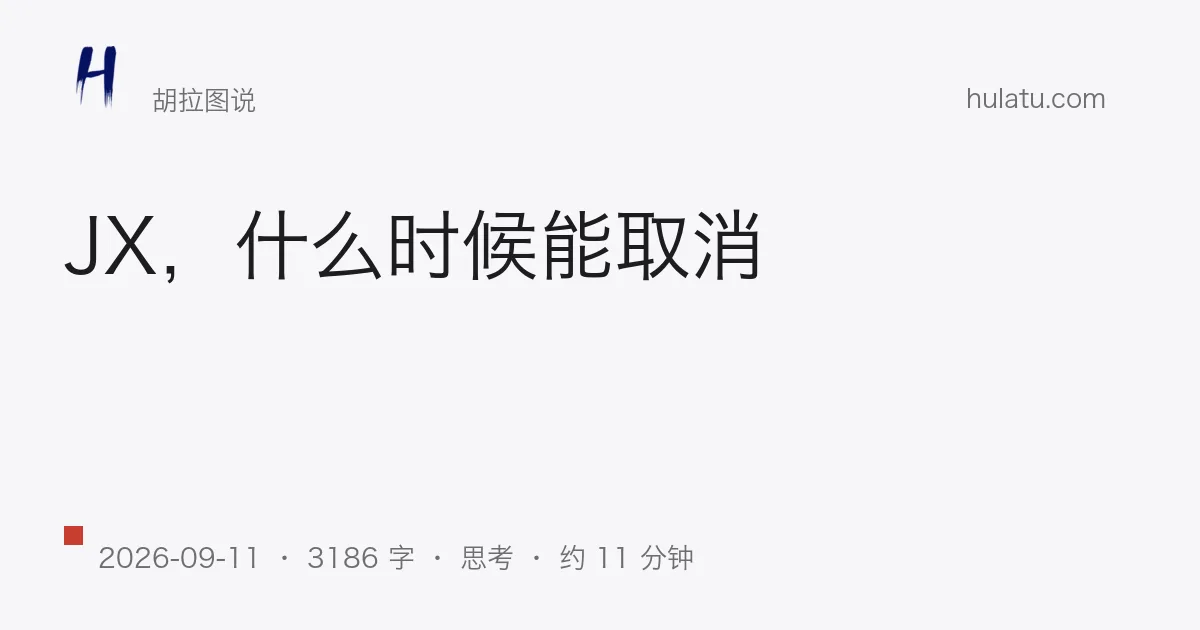
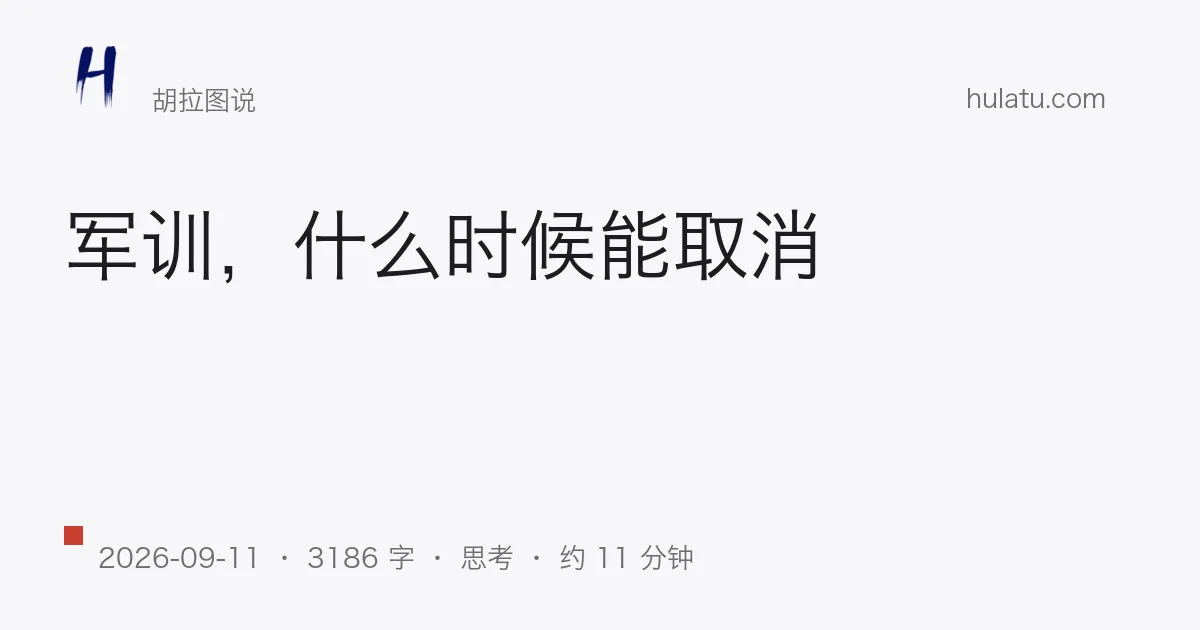
博客：新增/修改文章

Changed region(s): [[0.0617, 0.3317, 0.6783, 0.4524]]

diff --git a/assets/css/style.css b/assets/css/style.css
@@ -579,6 +579,7 @@ main.container.is-entering {
   justify-content: center;
   width: 30px;
   height: 30px;
+  padding: 0;
   background: none;
   border: 1px solid var(--line);
   border-radius: 50%;
@@ -588,6 +589,8 @@ main.container.is-entering {
 }
 
 .random-btn svg {
+  display: block;
+  transform-origin: center;
   transition: transform 0.3s var(--ease);
 }
 
@@ -603,9 +606,9 @@ main.container.is-entering {
 
 .random-btn:active { transform: translateY(1px); }
 
-/* 随机进入文章按钮不跟第一个随机按钮一起旋转，避免两个按钮动效重复 */
+/* 两个首页随机按钮悬停时统一旋转 */
 .random-enter-btn:hover svg {
-  transform: none;
+  transform: rotate(90deg);
 }
 
 /* iOS 风格分段控件：精选 / 最新 */
@@ -613,8 +616,9 @@ main.container.is-entering {
   display: inline-flex;
   align-items: center;
   justify-self: end;
-  gap: var(--space-1);
-  padding: var(--space-1);
+  gap: 2px;
+  height: 30px;
+  padding: 3px;
   background: var(--surface-2);
   border: 1px solid var(--line);
   border-radius: var(--radius-pill);
@@ -628,12 +632,21 @@ main.container.is-entering {
   font: inherit;
   font-size: 0.78rem;
   line-height: 1;
-  padding: 0.55em 1em;
+  display: inline-flex;
+  align-items: center;
+  justify-content: center;
+  min-width: 4em;
+  height: 100%;
+  padding: 0 1em;
   border-radius: var(--radius-pill);
   cursor: pointer;
   white-space: nowrap;
   transition: color 0.2s var(--ease), background 0.2s var(--ease),
     box-shadow 0.2s var(--ease);
+}
+
+.seg-btn:hover:not(.is-active) {
+  color: var(--ink-soft);
 }
 
 .seg-btn.is-active {
@@ -3654,6 +3667,17 @@ svg {
 .random-post-btn svg,
 .lightbox-nav svg,
 .lightbox-close svg {
+  width: 20px;
+  height: 20px;
+}
+
+/* 首页左下角两个随机按钮：按视觉重量做光学补偿，避免箭头图标显得偏大 */
+.home-side-actions #random-btn svg {
+  width: 16px;
+  height: 16px;
+}
+
+.home-side-actions #random-post-btn svg {
   width: 20px;
   height: 20px;
 }

diff --git a/layouts/index.html b/layouts/index.html
@@ -50,7 +50,7 @@
 <div class="list-toolbar">
   <div class="home-side-actions">
     <button type="button" class="random-btn" id="random-btn" title="随机显示 5 篇文章" aria-label="随机显示 5 篇文章">
-      <svg viewBox="0 0 24 24" width="15" height="15" fill="none" stroke="currentColor" stroke-width="2" stroke-linecap="round" stroke-linejoin="round" aria-hidden="true">
+      <svg viewBox="0 0 24 24" width="16" height="16" fill="none" stroke="currentColor" stroke-width="2" stroke-linecap="round" stroke-linejoin="round" aria-hidden="true">
         <polyline points="16 3 21 3 21 8"></polyline>
         <line x1="4" y1="20" x2="21" y2="3"></line>
         <polyline points="21 16 21 21 16 21"></polyline>
@@ -59,7 +59,7 @@
       </svg>
     </button>
     <button type="button" class="random-btn random-enter-btn" id="random-post-btn" title="随机进入一篇文章" aria-label="随机进入一篇文章">
-      <svg viewBox="0 0 24 24" width="15" height="15" fill="none" stroke="currentColor" stroke-width="2" stroke-linecap="round" stroke-linejoin="round" aria-hidden="true">
+      <svg viewBox="0 0 24 24" width="20" height="20" fill="none" stroke="currentColor" stroke-width="2" stroke-linecap="round" stroke-linejoin="round" aria-hidden="true">
         <circle cx="12" cy="12" r="10"></circle>
         <polygon points="16.24 7.76 14.12 14.12 7.76 16.24 9.88 9.88 16.24 7.76"></polygon>
       </svg>

diff --git a/content/posts/JX，什么时候能取消.md b/content/posts/JX，什么时候能取消.md
@@ -1,6 +1,6 @@
 ---
 # ===== 文章设置（写完正文后，在这里调整）=====
-title: "JX，什么时候能取消"   
+title: "军训，什么时候能取消"   
 date: 2026-09-11T22:37:53+08:00                              
 lastmod: 2026-09-11T22:37:53+08:00                      
 slug: "Cancel-military-training"                                         
